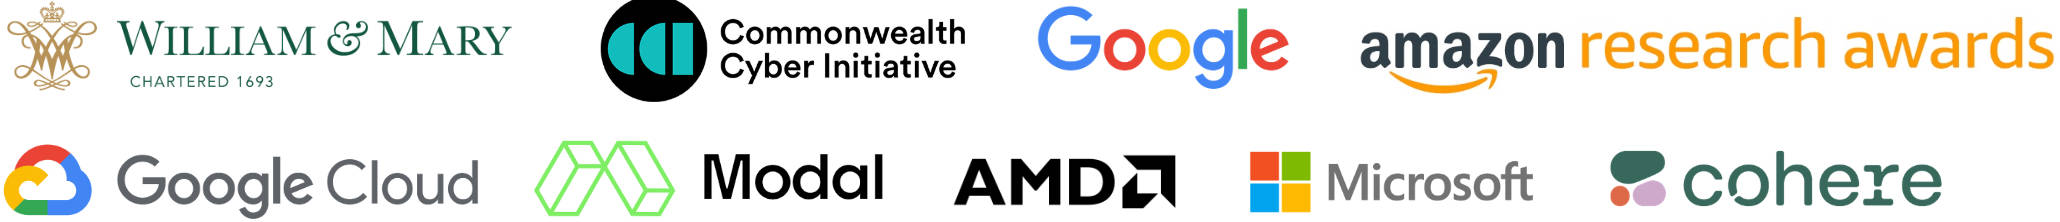
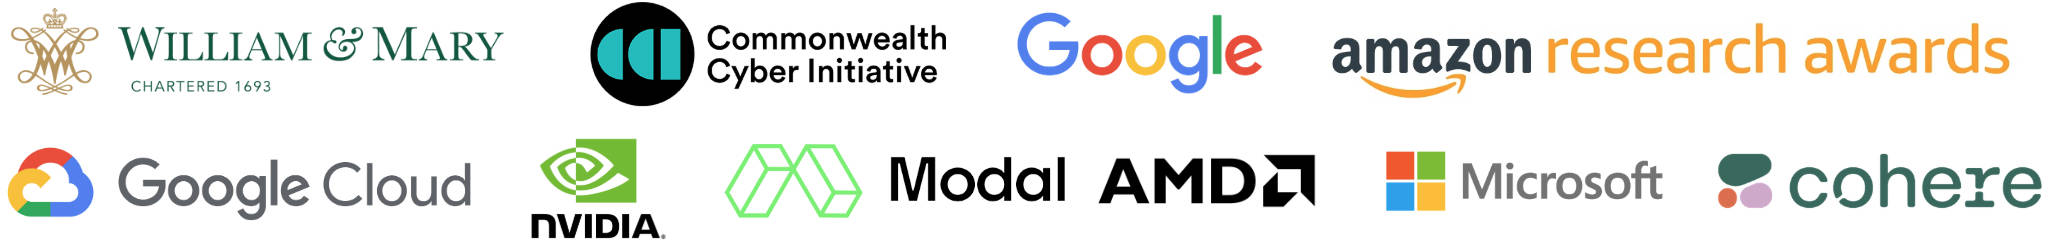
upd: nvidia grant

Changed region(s): [[0.0, 0.5405, 0.9961, 0.973], [0.2802, 0.0, 1.0, 0.4595], [0.0, 0.027, 0.249, 0.4054]]

diff --git a/_pages/about.md b/_pages/about.md
@@ -25,6 +25,6 @@ Integrated Science Center 2273, Williamsburg, VA<br>
 *I am open to industry and university visit, consultant, and more collaboration!*
 
 Dr. Jindong Wang is an Assistant Professor at Department of Data Science, William & Mary. He is also a faculty member of [Future of Life Institute](https://futureoflife.org/person/jindong-wang/). Previously, he was a Senior Researcher in Microsoft Research Asia from 2019 to 2024. His research interest spans machine learning, large foundation models, and generative AI for social science. He is among [World's Top 2% Highly Cited Scientists](https://ecebm.com/2023/10/04/stanford-university-names-worlds-top-2-scientists-2023/) and [Most Influential AI Scholars](https://www.aminer.cn/ai2000?domain_ids=5dc122672ebaa6faa962c2a4). He is associate editor of IEEE Transactions on Neural Networks and Learning Systems (TNNLS), guest editor for ACM Transactions on Intelligent Systems and Technology (TIST), area chair for ICML, NeurIPS, ICLR, KDD, ACL, ACMMM, and ACML, and SPC of IJCAI and AAAI. He published over 60 papers at top-tier venues (23000+ citations, H-index 54).
-His research is supported by Amazon Research Award, Google Research Award, AMD University Program AI & HPC Award, Microsoft Accelerate Foundation Model Research Award, and William & Mary Faculty Research Award.
+His research is supported by Amazon Research Award, Google Research Award, NVIDIA Academic Research Grant, AMD University Program AI & HPC Award, Microsoft Accelerate Foundation Model Research Award, and William & Mary Faculty Research Award.
 His research was integrated into Microsoft [health products](https://isthmus.com/news/cover-story/epic-and-microsoft-partner-up/) that reduced token consumptions by 15%, and [quant finance](https://www.vadim.blog/qlib-ai-quant-workflow-adarnn) with increased prediction accuracy.
 His work was reported by [Forbes](https://www.forbes.com/sites/lanceeliot/2023/11/11/the-answer-to-why-emotionally-worded-prompts-can-goose-generative-ai-into-better-answers-and-how-to-spur-a-decidedly-positive-rise-out-of-ai/?sh=38038fb137e5), [MIT Technology Review](https://www.mittrchina.com/news/detail/13596), and other international media. He received best papers awards at several conferences and workshops. He published a book [Introduction to Transfer Learning](http://jd92.wang/tlbook) and gave tutorials at [IJCAI'22](https://dgresearch.github.io/), [WSDM'23](https://dgresearch.github.io/), [KDD'23](https://mltrust.github.io/), [AAAI'24](https://ood-timeseries.github.io/), [AAAI'25](https://llm-understand.github.io/), and [CVPR'25](https://ucsb-mlsec.github.io/cvpr2025-tutorial-Evaluating-Large-Multi-modal-Models-Challenges-and-Methods/).

diff --git a/_pages/research.md b/_pages/research.md
@@ -32,6 +32,7 @@ The long-term research goal is to understand and improve modern AI models, such 
 
 #### Funding and Grants
 
+- Principal Investigator. NVIDIA Academic Research Grant. 2026 - 2027.
 - Principal Investigator. Amazon Research Award. 2025 - 2026.
 - Principal Investigator. Google DeepMind Unrestricted Gift Award. 2025 - 2026.
 - Principal Investigator. AMD University Program AI&HPC Award. 2025 - 2026.

diff --git a/_pages/awards.md b/_pages/awards.md
@@ -6,6 +6,7 @@ nav: true
 ---
 
 #### After PhD
+- NVIDIA Academic Research Grant 2025.
 - Amazon Research Award 2025.
 - Google Research Award 2025.
 - AMD University Program AI&HPC Award 2025.

diff --git a/_news/nvidia-grant.md b/_news/nvidia-grant.md
@@ -1,0 +1,7 @@
+---
+layout: post
+date: 2025-12-15
+inline: true
+---
+
+We got the **NVIDIA Academic Research Grant** (4x RTX Pro 6000 GPUs)!
